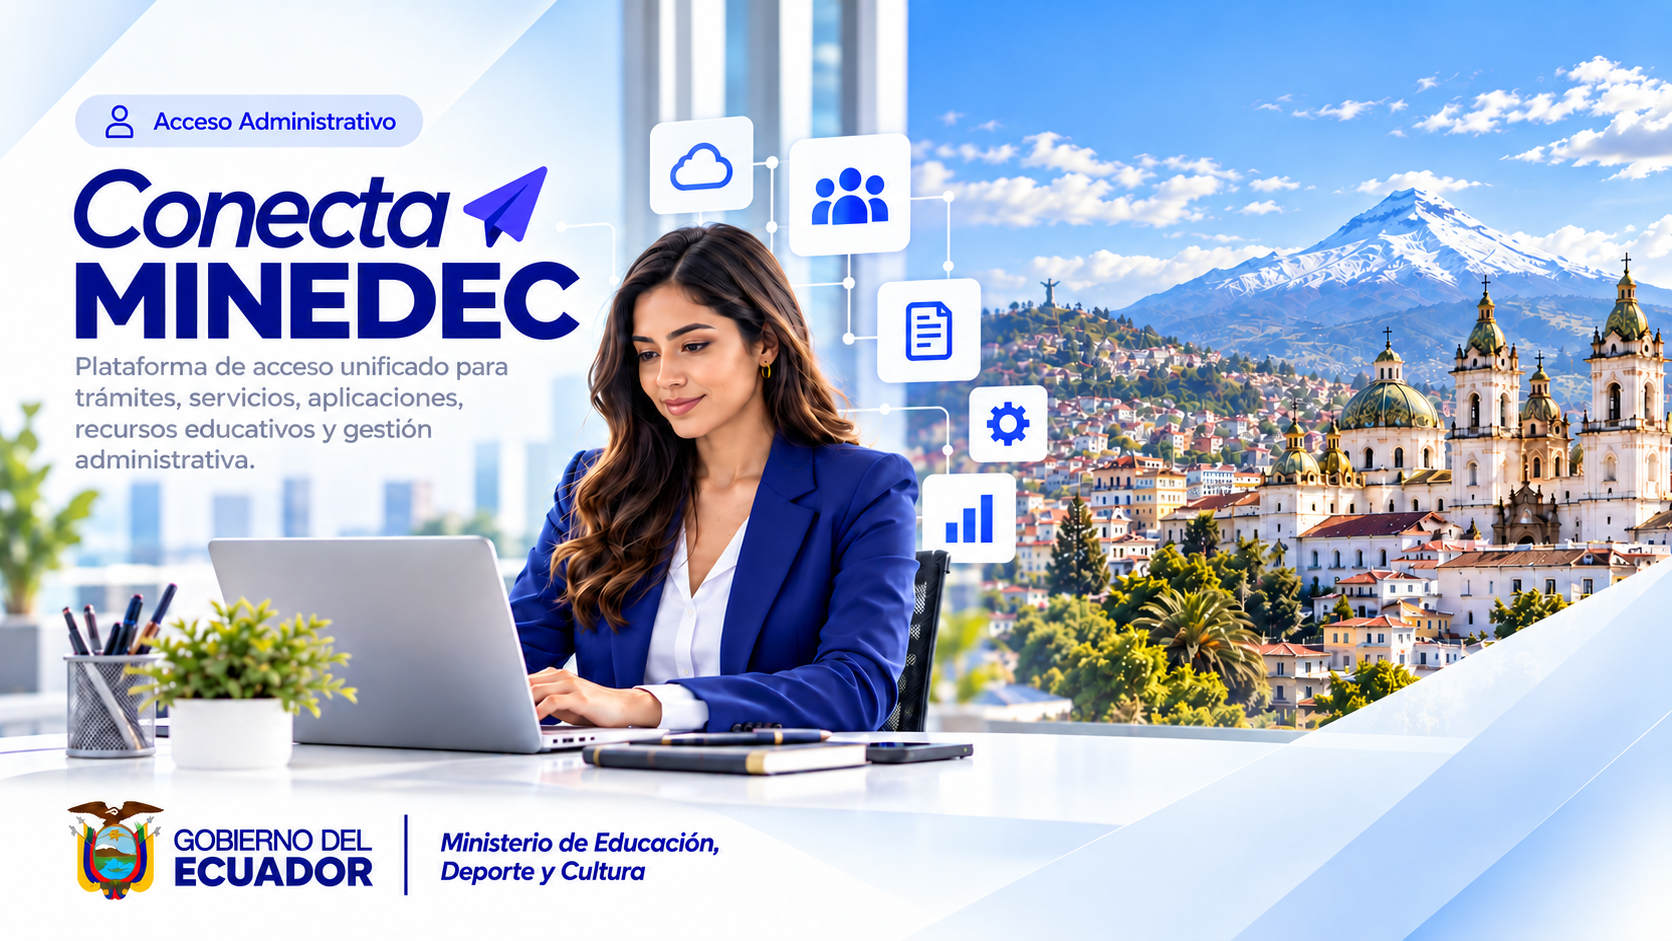
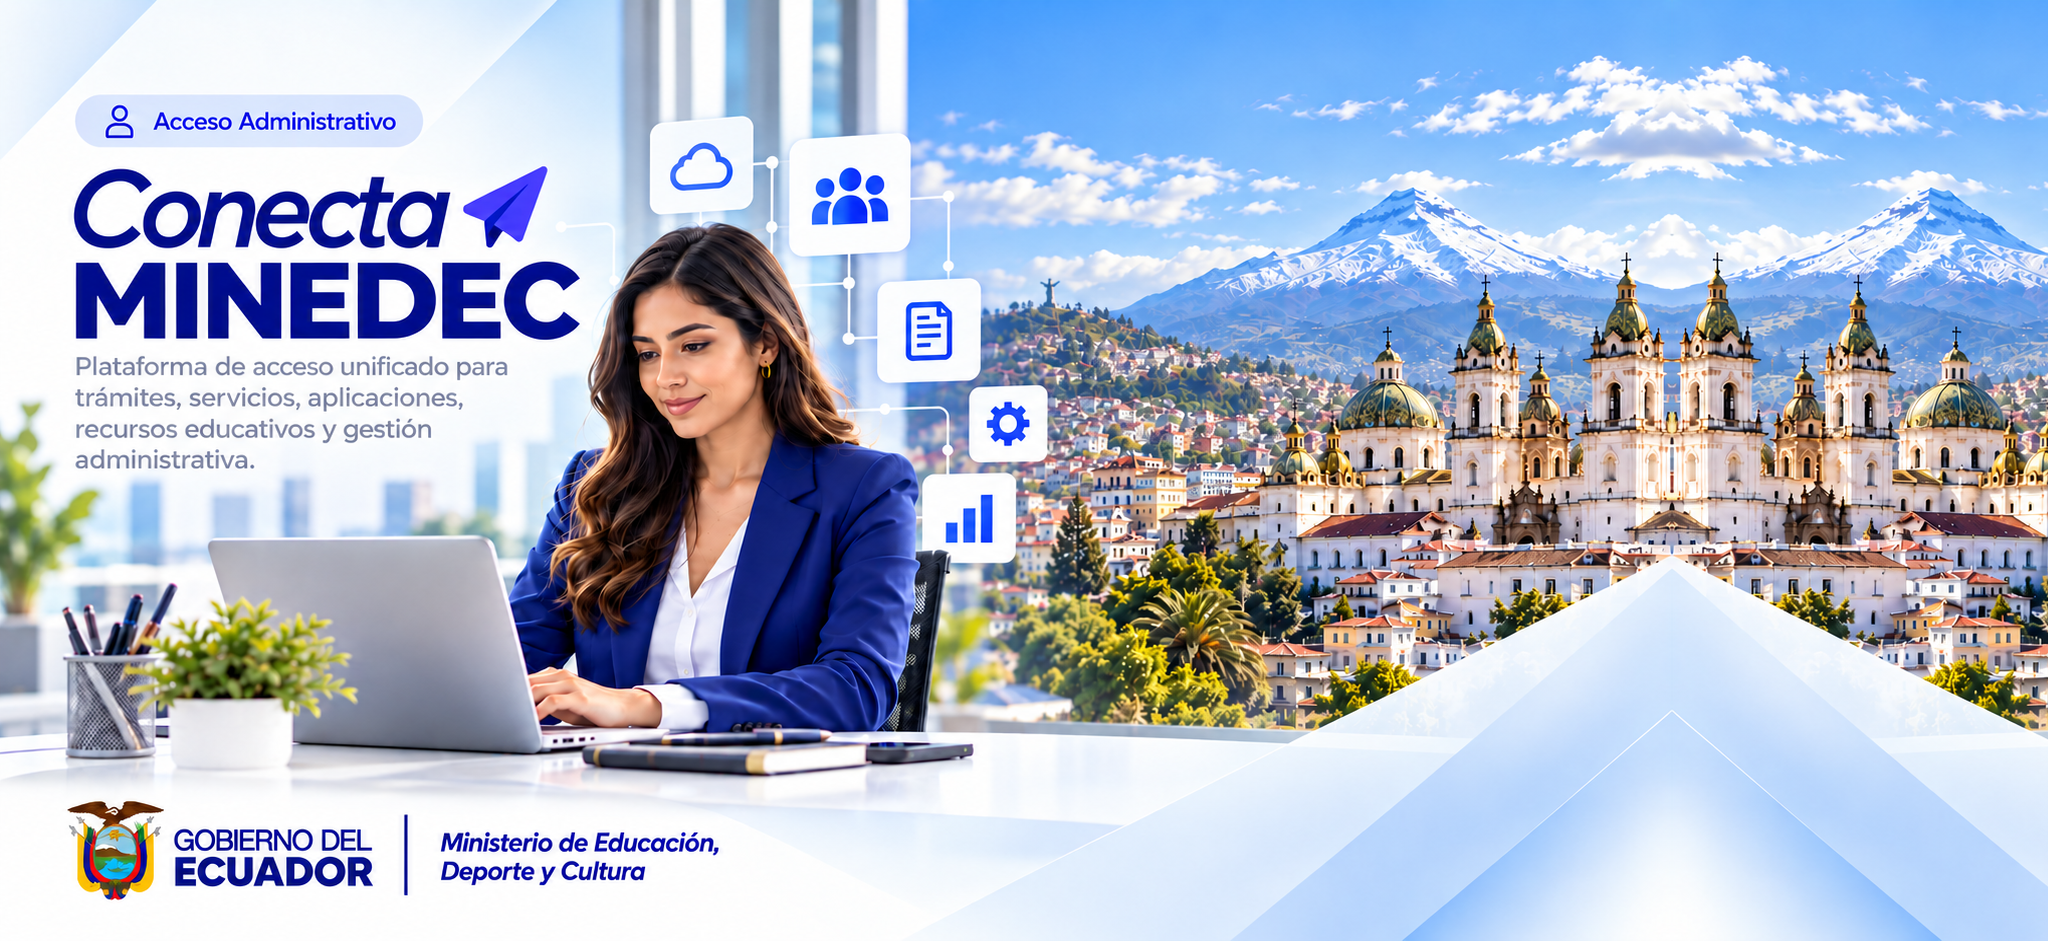
feat: ajuste imagenes

diff --git a/src/modules/auth/components/login-sso-background.tsx b/src/modules/auth/components/login-sso-background.tsx
@@ -6,13 +6,23 @@ import type { BackgroundImagesConfig } from "../types/auth-config";
 export interface LoginSSOBackgroundProps {
   className?: string;
   images?: BackgroundImagesConfig;
+  desktopPosition?: string;
+  mobilePosition?: string;
 }
 
-export function LoginSSOBackground({ className, images }: LoginSSOBackgroundProps) {
+export function LoginSSOBackground({
+  className,
+  images,
+  desktopPosition,
+  mobilePosition,
+}: LoginSSOBackgroundProps) {
   const mobileLight = images?.mobileLight || "/fondo-mobile.png";
-  const mobileDark = images?.mobileDark || "/fondo-mobile-dark.png";
+  const mobileDark = images?.mobileDark || images?.mobileLight || "/fondo-mobile.png";
   const desktopLight = images?.desktopLight || "/fondo-desktop.png";
-  const desktopDark = images?.desktopDark || "/fondo-desktop-dark.png";
+  const desktopDark = images?.desktopDark || images?.desktopLight || "/fondo-desktop.png";
+
+  const resolvedDesktopPosition = desktopPosition || images?.desktopPosition || "object-left-top";
+  const resolvedMobilePosition = mobilePosition || images?.mobilePosition || "object-top";
 
   return (
     <div className={cn("absolute inset-0 z-0 h-full w-full overflow-hidden", className)}>
@@ -21,7 +31,10 @@ export function LoginSSOBackground({ className, images }: LoginSSOBackgroundProp
         src={getAssetPath(mobileLight)}
         alt="Fondo móvil Conecta MINEDUC Claro"
         fill
-        className="block dark:hidden md:!hidden object-cover object-center"
+        className={cn(
+          "block dark:hidden md:!hidden object-cover",
+          resolvedMobilePosition
+        )}
         priority
         unoptimized
       />
@@ -30,7 +43,10 @@ export function LoginSSOBackground({ className, images }: LoginSSOBackgroundProp
         src={getAssetPath(mobileDark)}
         alt="Fondo móvil Conecta MINEDUC Oscuro"
         fill
-        className="hidden dark:block md:!hidden object-cover object-center"
+        className={cn(
+          "hidden dark:block md:!hidden object-cover",
+          resolvedMobilePosition
+        )}
         priority
         unoptimized
       />
@@ -39,7 +55,11 @@ export function LoginSSOBackground({ className, images }: LoginSSOBackgroundProp
         src={getAssetPath(desktopLight)}
         alt="Persona trabajando en contexto administrativo en MINEDUC Claro"
         fill
-        className="hidden md:block dark:!hidden object-cover object-bottom"
+        className={cn(
+          "hidden md:block dark:!hidden object-cover",
+          resolvedDesktopPosition,
+          className
+        )}
         priority
         unoptimized
       />
@@ -48,7 +68,11 @@ export function LoginSSOBackground({ className, images }: LoginSSOBackgroundProp
         src={getAssetPath(desktopDark)}
         alt="Persona trabajando en contexto administrativo en MINEDUC Oscuro"
         fill
-        className="hidden dark:md:block object-cover object-bottom"
+        className={cn(
+          "hidden dark:md:block object-cover",
+          resolvedDesktopPosition,
+          className
+        )}
         priority
         unoptimized
       />

diff --git a/src/modules/auth/components/login-sso-form.tsx b/src/modules/auth/components/login-sso-form.tsx
@@ -36,6 +36,7 @@ export function LoginSSOForm({
   const [showPassword, setShowPassword] = useState(false);
   const [globalError, setGlobalError] = useState<string | null>(null);
   const [showMustChangePassword, setShowMustChangePassword] = useState(false);
+  const [isAuthenticating, setIsAuthenticating] = useState(false);
 
   const resolvedMfaRedirect =
     mfaRedirectTo ||
@@ -46,7 +47,7 @@ export function LoginSSOForm({
 
   // Redirigir a destino si ya existe una sesión activa en Firebase y no requiere cambio de clave
   useEffect(() => {
-    if (!authLoading && user && !showMustChangePassword) {
+    if (!authLoading && user && !showMustChangePassword && !isAuthenticating) {
       if (targetApp === "notas") {
         fetchAuthProfile({ targetApp: "notas" })
           .then((profile) => {
@@ -90,7 +91,11 @@ export function LoginSSOForm({
         })
         .catch(async (err: any) => {
           const errMsg = err?.message || "";
-          if (errMsg.includes("verificación en dos pasos") || errMsg.includes("MFA_REQUIRED")) {
+          if (
+            errMsg.includes("verificación en dos pasos") ||
+            errMsg.includes("MFA_REQUIRED") ||
+            err?.code === "MFA_REQUIRED"
+          ) {
             // Sesión con doble factor pendiente: redirigir a doble factor sin cerrar sesión
             router.replace(resolvedMfaRedirect);
             return;
@@ -240,6 +245,7 @@ export function LoginSSOForm({
     }
 
     setIsLoading(true);
+    setIsAuthenticating(true);
     setGlobalError(null);
 
     try {
@@ -260,6 +266,7 @@ export function LoginSSOForm({
             Authorization: `Bearer ${token}`,
           },
         });
+        await userCredential.user.getIdToken(true);
         toast.info("Código de verificación enviado", {
           description: "Revisa tu correo para completar el acceso.",
         });
@@ -269,6 +276,7 @@ export function LoginSSOForm({
 
       router.replace(resolvedMfaRedirect);
     } catch (error: any) {
+      setIsAuthenticating(false);
       console.error("Error al autenticar credenciales:", error);
       let errorMsg = "Correo institucional o contraseña incorrectos.";
       if (

diff --git a/src/modules/auth/views/login-notas-view.tsx b/src/modules/auth/views/login-notas-view.tsx
@@ -1,6 +1,6 @@
 import { LoginSSOBackground } from "../components/login-sso-background";
 import { LoginSSOForm } from "../components/login-sso-form";
-import type { LoginAuthConfig } from "../types/auth-config";
+import { DEFAULT_NOTAS_BACKGROUND_IMAGES, type LoginAuthConfig } from "../types/auth-config";
 
 export interface LoginNotasViewProps {
   config?: Partial<LoginAuthConfig>;
@@ -12,9 +12,14 @@ export function LoginNotasView({ config }: LoginNotasViewProps) {
   const defaultDescription =
     "Ingreso exclusivo para la consulta y registro de calificaciones, evaluaciones y gestión académica del sistema de Notas.";
 
+  const backgroundImages = {
+    ...DEFAULT_NOTAS_BACKGROUND_IMAGES,
+    ...config?.backgroundImages,
+  };
+
   return (
     <main className="relative flex min-h-screen lg:h-screen w-full items-center justify-center lg:justify-end p-4 lg:px-10 lg:py-6 xl:px-20 xl:py-8 overflow-hidden bg-background">
-      <LoginSSOBackground images={config?.backgroundImages} />
+      <LoginSSOBackground images={backgroundImages} />
       <LoginSSOForm
         title={config?.title || defaultTitle}
         subtitle={config?.subtitle || defaultSubtitle}

diff --git a/src/modules/notas/views/login-notas-verificar-codigo-view.tsx b/src/modules/notas/views/login-notas-verificar-codigo-view.tsx
@@ -1,6 +1,9 @@
 import { LoginSSOBackground } from "@/modules/auth/components/login-sso-background";
 import { DobleFactorNotasForm } from "../components/doble-factor-notas-form";
-import type { BackgroundImagesConfig } from "@/modules/auth/types/auth-config";
+import {
+  DEFAULT_NOTAS_BACKGROUND_IMAGES,
+  type BackgroundImagesConfig,
+} from "@/modules/auth/types/auth-config";
 
 export interface LoginNotasVerificarCodigoViewProps {
   backgroundImages?: BackgroundImagesConfig;
@@ -11,9 +14,14 @@ export function LoginNotasVerificarCodigoView({
   backgroundImages,
   redirectTo,
 }: LoginNotasVerificarCodigoViewProps = {}) {
+  const images = {
+    ...DEFAULT_NOTAS_BACKGROUND_IMAGES,
+    ...backgroundImages,
+  };
+
   return (
     <main className="relative flex min-h-screen w-full items-center justify-center lg:justify-end p-4 lg:p-12 xl:p-24 overflow-hidden bg-background">
-      <LoginSSOBackground images={backgroundImages} />
+      <LoginSSOBackground images={images} />
       <DobleFactorNotasForm
         className="mr-0 lg:mr-12 xl:mr-24 w-full sm:max-w-lg"
         redirectTo={redirectTo}

diff --git a/src/modules/auth/views/login-sso-view.tsx b/src/modules/auth/views/login-sso-view.tsx
@@ -1,11 +1,19 @@
 import { LoginSSOBackground } from "../components/login-sso-background";
 import { LoginSSOForm } from "../components/login-sso-form";
+import type { LoginAuthConfig } from "../types/auth-config";
 
-export function LoginSSOView() {
+export interface LoginSSOViewProps {
+  config?: Partial<LoginAuthConfig>;
+}
+
+export function LoginSSOView({ config }: LoginSSOViewProps = {}) {
   return (
     <main className="relative flex min-h-screen lg:h-screen w-full items-center justify-center lg:justify-end p-4 lg:px-10 lg:py-6 xl:px-20 xl:py-8 overflow-hidden bg-background">
-      <LoginSSOBackground />
-      <LoginSSOForm className="mr-0 lg:mr-4 xl:mr-12 w-full sm:max-w-md lg:max-w-[480px] max-h-[calc(100vh-2rem)] overflow-y-auto" />
+      <LoginSSOBackground images={config?.backgroundImages} />
+      <LoginSSOForm
+        {...config}
+        className={config?.className || "mr-0 lg:mr-4 xl:mr-12 w-full sm:max-w-md lg:max-w-[480px] max-h-[calc(100vh-2rem)] overflow-y-auto"}
+      />
     </main>
   );
 }

diff --git a/src/modules/notas/__tests__/doble-factor-notas-form.test.tsx b/src/modules/notas/__tests__/doble-factor-notas-form.test.tsx
@@ -246,11 +246,16 @@ describe("DobleFactorNotasForm Component", () => {
 
   describe("LoginNotasVerificarCodigoView Layout Component", () => {
     it("should render LoginNotasVerificarCodigoView containing DobleFactorNotasForm and background", () => {
-      render(<LoginNotasVerificarCodigoView />);
+      const { container } = render(<LoginNotasVerificarCodigoView />);
 
       expect(screen.getByRole("heading", { level: 2, name: /verificación de seguridad/i })).toBeTruthy();
       expect(screen.getByText(/acceso a notas/i)).toBeTruthy();
       expect(screen.getAllByRole("textbox")).toHaveLength(6);
+
+      const images = container.querySelectorAll("img");
+      const srcList = Array.from(images).map((img) => img.getAttribute("src"));
+      expect(srcList.some((src) => src?.includes("fondo-notas.png"))).toBe(true);
+      expect(srcList.some((src) => src?.includes("fondo-mobile-notas.png"))).toBe(true);
     });
   });
 });

diff --git a/src/modules/auth/__tests__/login-notas.test.tsx b/src/modules/auth/__tests__/login-notas.test.tsx
@@ -111,4 +111,13 @@ describe("LoginViews and Configuration", () => {
       expect(fetchAuthProfile).toHaveBeenCalledWith({ targetApp: "notas" });
     });
   });
+
+  it("should render default Notas background images for desktop and mobile", () => {
+    const { container } = render(<LoginNotasView />);
+    const images = container.querySelectorAll("img");
+    const srcList = Array.from(images).map((img) => img.getAttribute("src"));
+
+    expect(srcList.some((src) => src?.includes("fondo-notas.png"))).toBe(true);
+    expect(srcList.some((src) => src?.includes("fondo-mobile-notas.png"))).toBe(true);
+  });
 });

diff --git a/src/modules/auth/types/auth-config.ts b/src/modules/auth/types/auth-config.ts
@@ -3,7 +3,18 @@ export interface BackgroundImagesConfig {
   mobileDark?: string;
   desktopLight?: string;
   desktopDark?: string;
+  desktopPosition?: string;
+  mobilePosition?: string;
 }
+
+export const DEFAULT_NOTAS_BACKGROUND_IMAGES: BackgroundImagesConfig = {
+  desktopLight: "/fondo-notas.png",
+  desktopDark: "/fondo-notas.png",
+  mobileLight: "/fondo-mobile-notas.png",
+  mobileDark: "/fondo-mobile-notas.png",
+  desktopPosition: "object-left-top",
+  mobilePosition: "object-top",
+};
 
 export interface LoginAuthConfig {
   title?: string;

diff --git a/src/modules/notas/components/doble-factor-notas-form.tsx b/src/modules/notas/components/doble-factor-notas-form.tsx
@@ -13,9 +13,14 @@ import { ArrowLeft } from "lucide-react";
 import { auth } from "@/lib/firebase/client";
 import { useAuth } from "@/hooks/useAuth";
 
+import { DEFAULT_NOTAS_BACKGROUND_IMAGES, type BackgroundImagesConfig } from "@/modules/auth/types/auth-config";
+
+export { DEFAULT_NOTAS_BACKGROUND_IMAGES };
+
 export interface DobleFactorNotasFormProps {
   className?: string;
   redirectTo?: string;
+  backgroundImages?: BackgroundImagesConfig;
 }
 
 export function DobleFactorNotasForm({
